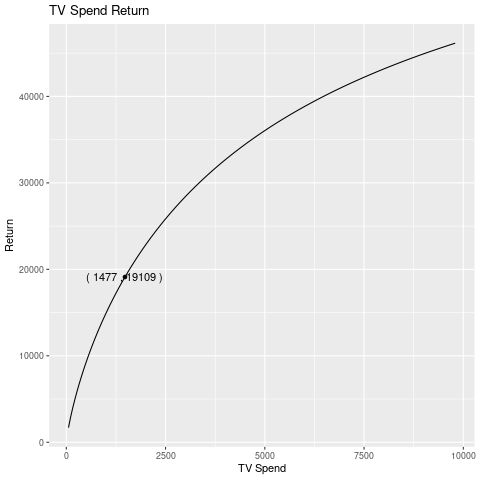
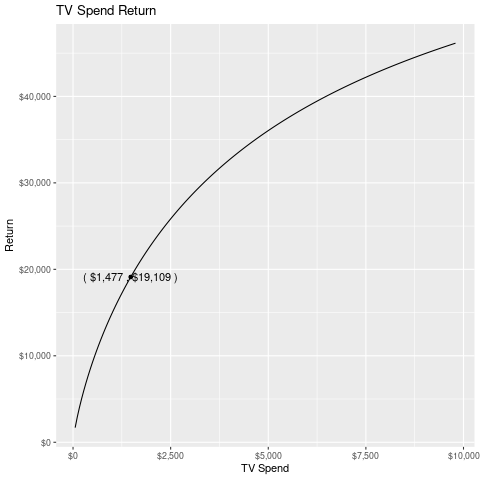
Enhance plotting functions

diff --git a/README.md b/README.md
@@ -161,10 +161,10 @@ dim_returns_plot
 ![Diminishing returns rate plot](./man/figures/dim_return_rate_plot.png)
 ![Adstocking plot](./man/figures/adstock_plot.png)
 
-We can clean it up a little by adding formatting.
+We can clean it up a little by adding formatting. The ellipses in `plot_diminishing_returns` add arguments to the function generating the inflection point.
 
 ```r
-dim_returns_plot <- dim_returns_plot + tidyquant::theme_tq()
+dim_returns_plot <- plot_diminishing_returns(model_fit, "TV Spend", nudge_x = 1300, size = 4) + tidyquant::theme_tq()
 dim_returns_plot
 ```
 ![Pretty diminishing returns plot](./man/figures/dim_returns_pretty.png)
